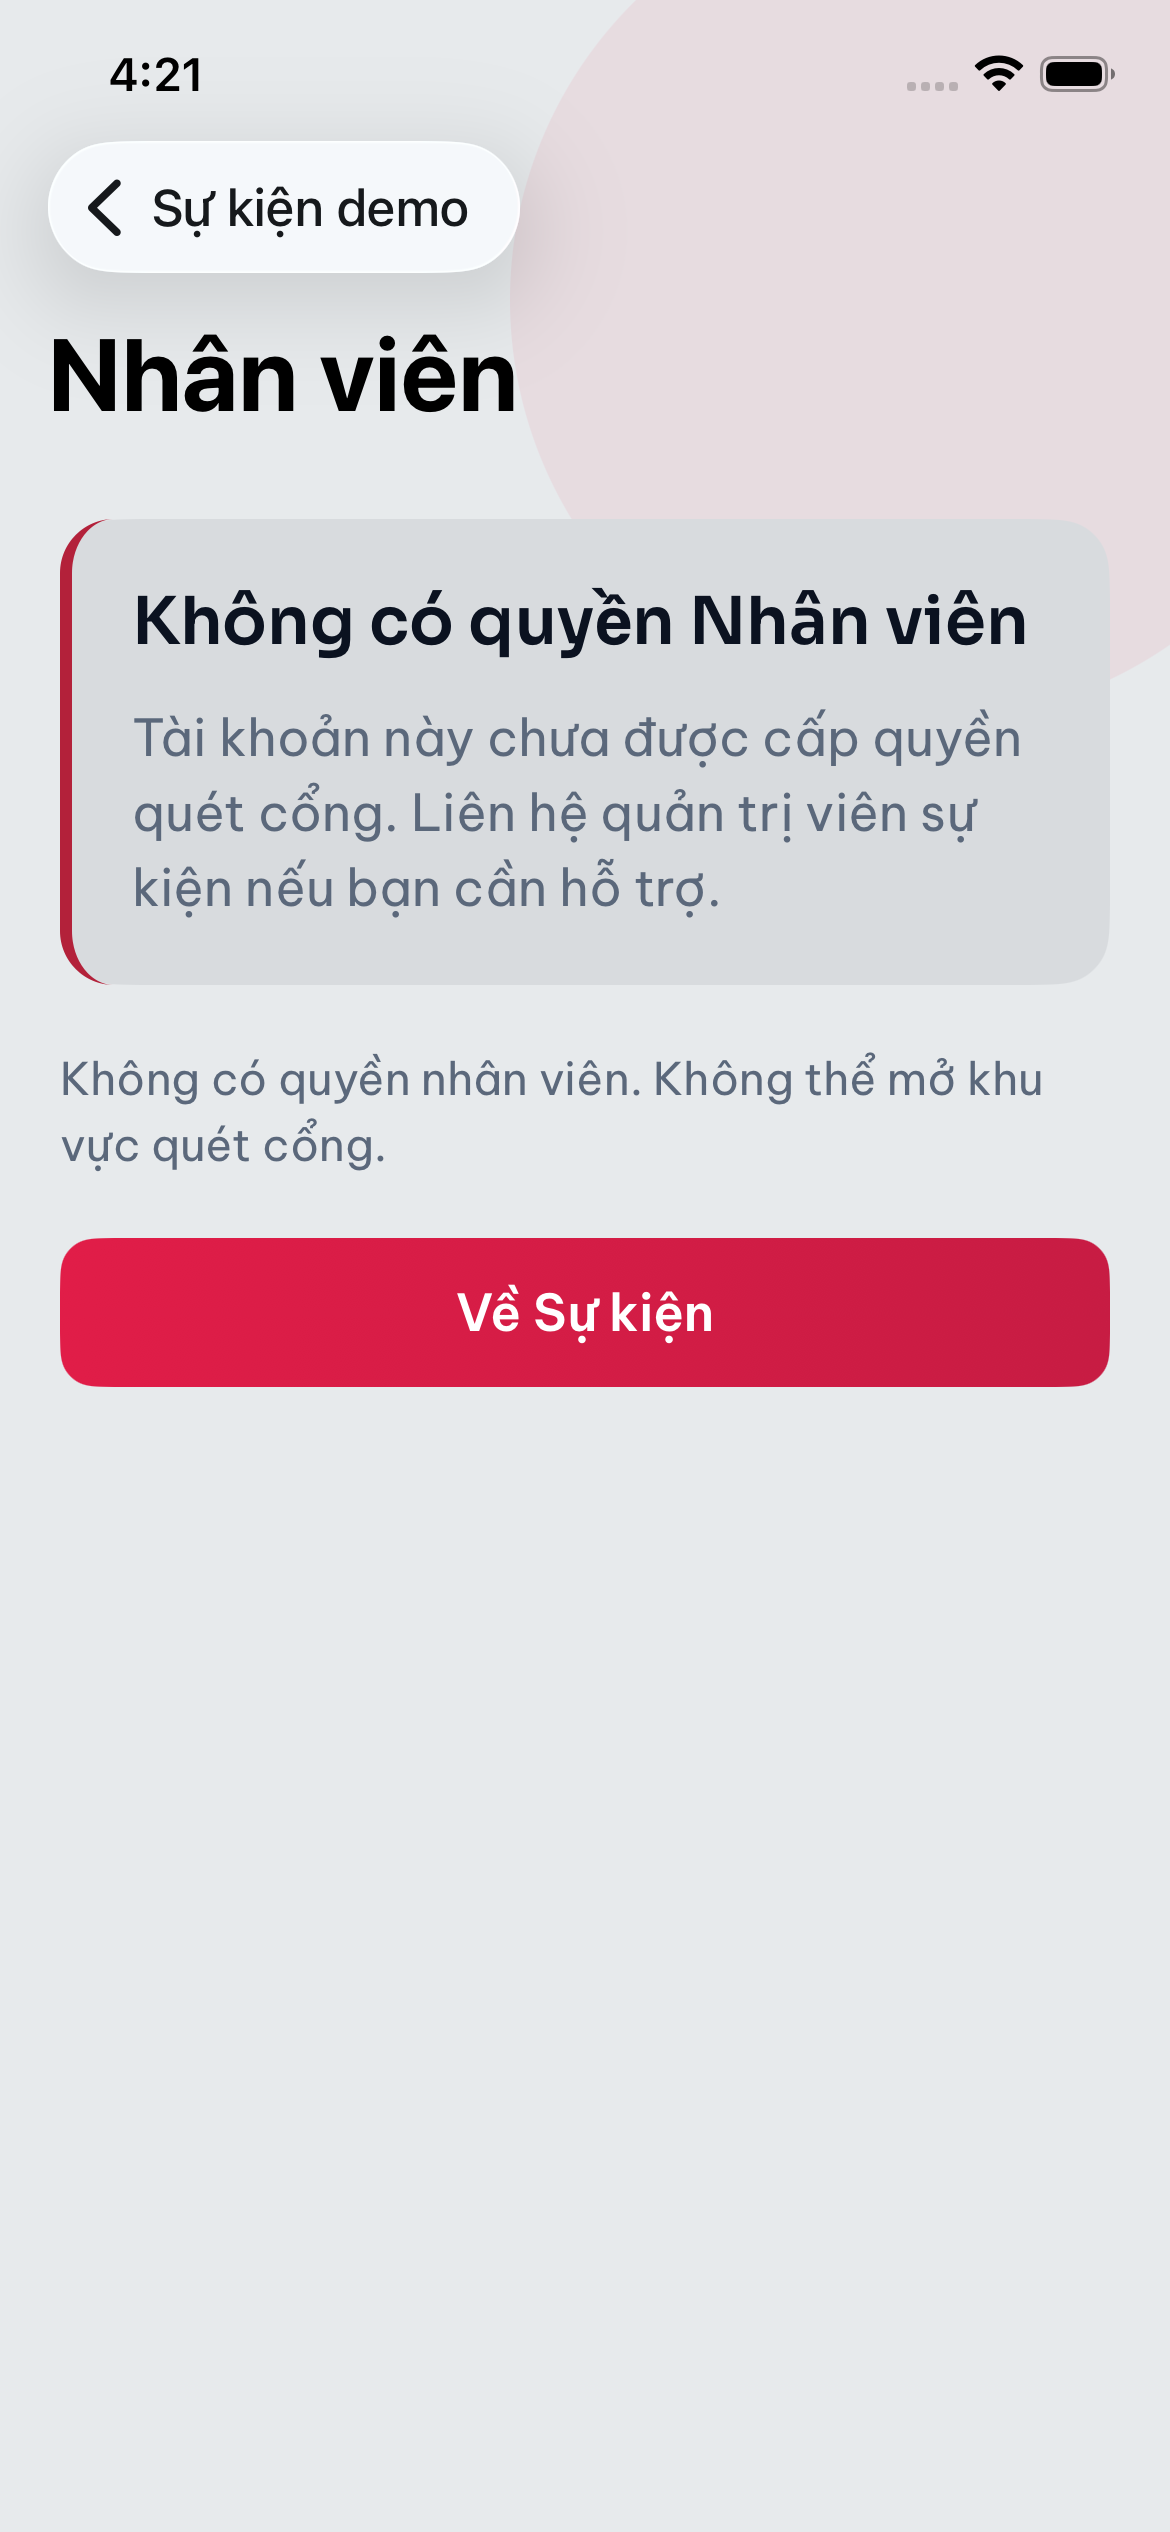
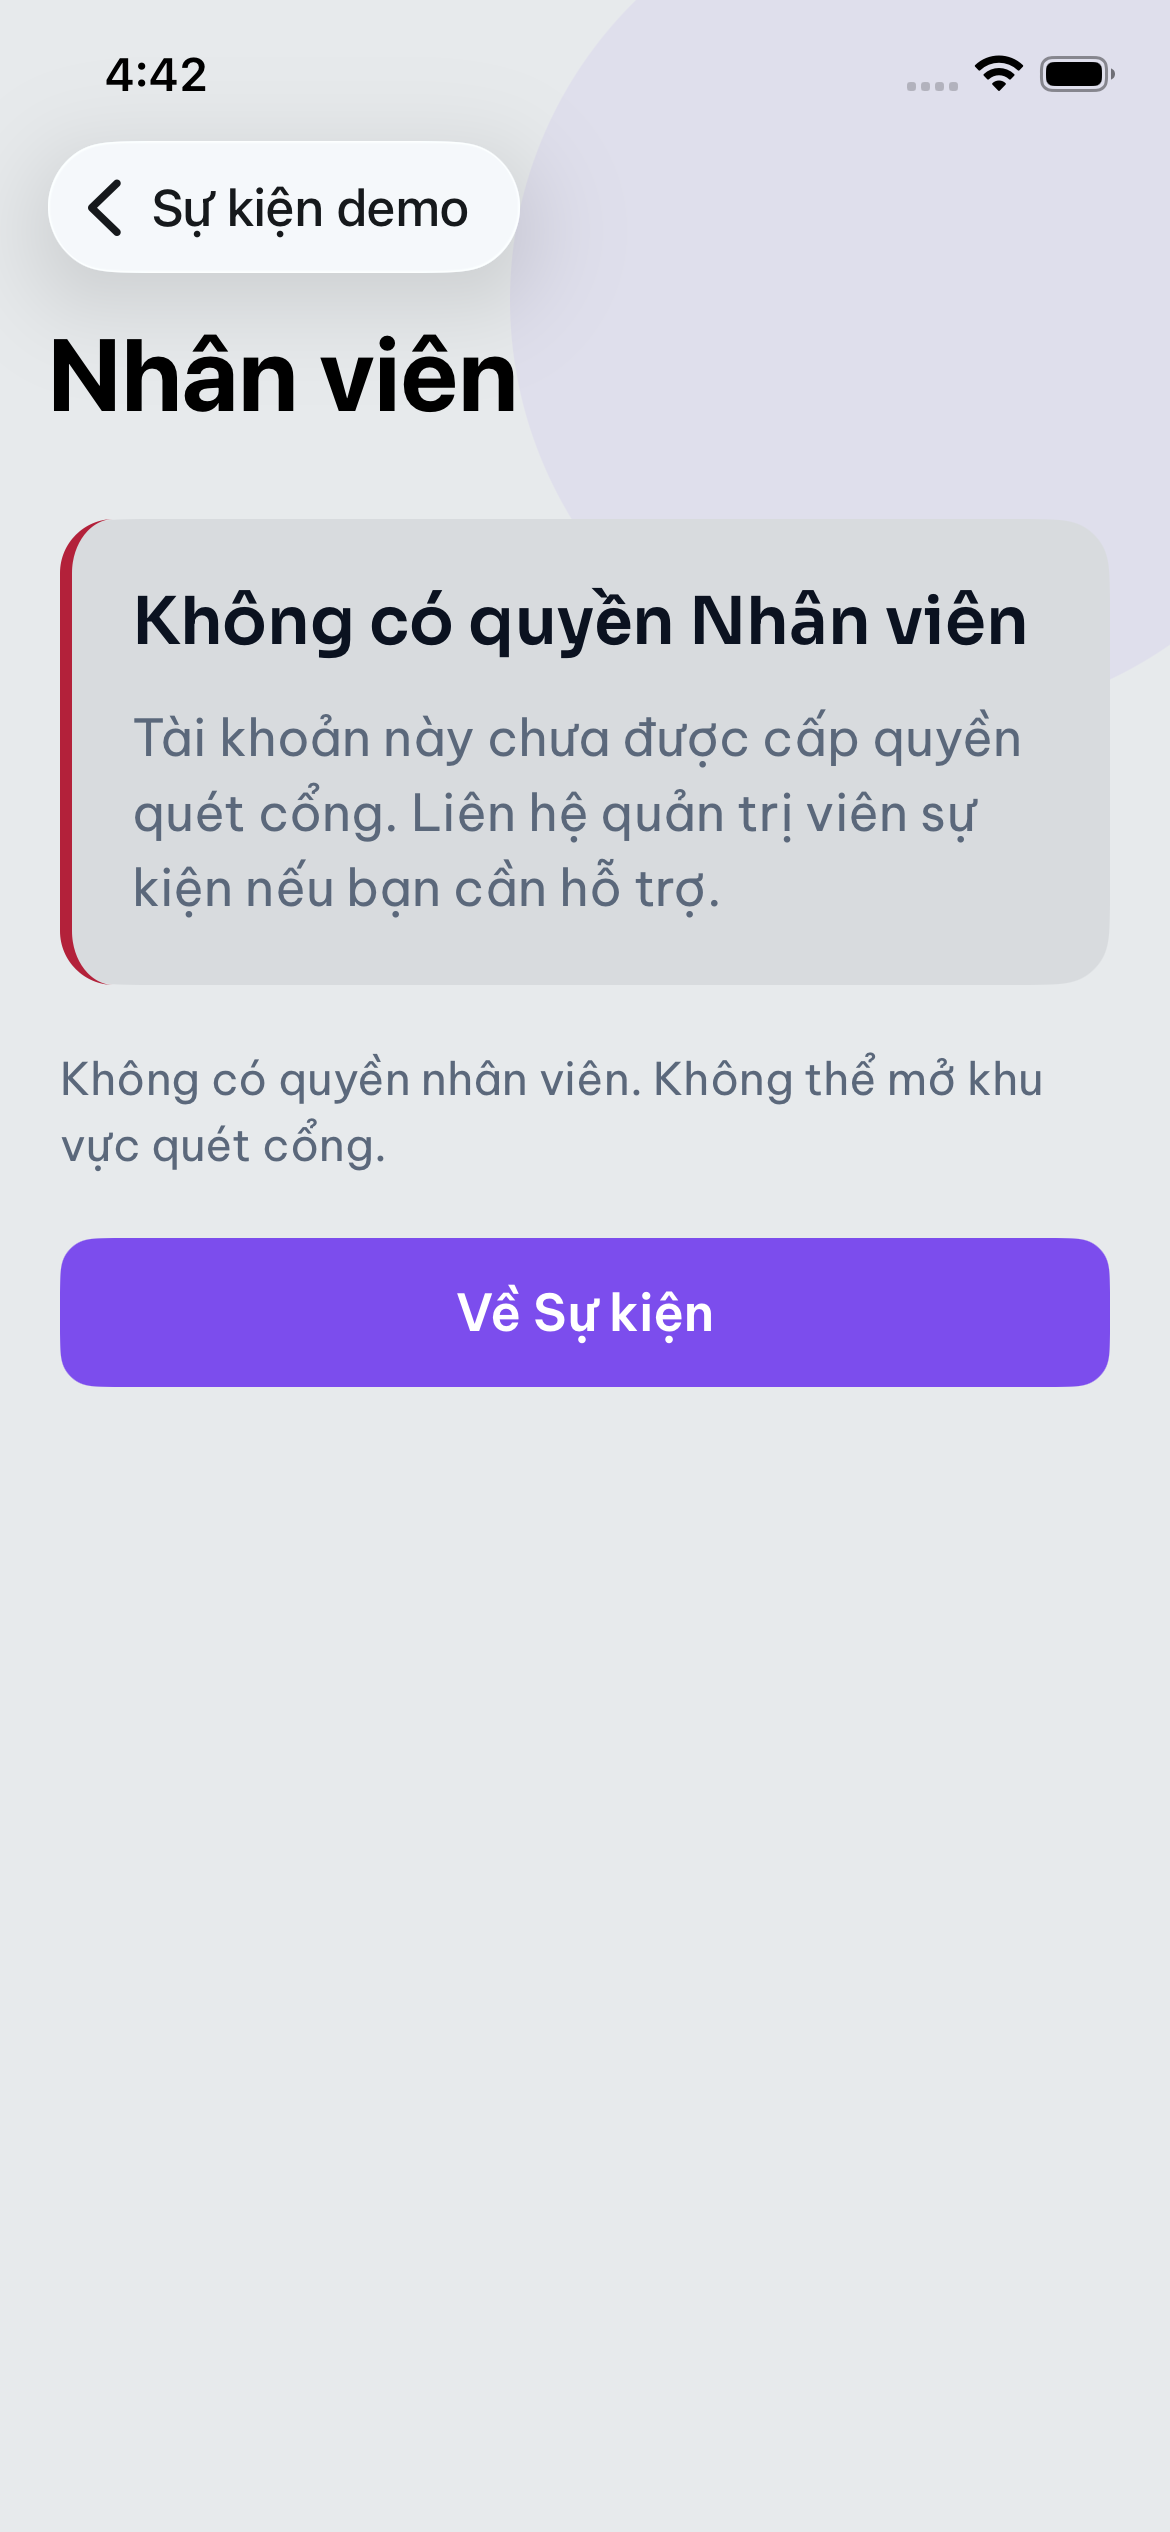
feat(mobile): solid primary violet #7C4DED for attendee UI
Sync brand primary into generated tokens, drop signal gradient/glow on Button, and refresh VD10 simulator evidence.

Changed region(s): [[0.0308, 0.468, 0.9538, 0.5616], [0.0923, 0.0, 0.1538, 0.0312]]

diff --git a/apps/mobile/src/components/ui/button.tsx b/apps/mobile/src/components/ui/button.tsx
@@ -1,4 +1,3 @@
-import { LinearGradient } from 'expo-linear-gradient';
 import { useState, type ReactNode } from 'react';
 import {
   Pressable,
@@ -10,7 +9,6 @@ import {
   type ViewStyle
 } from 'react-native';
 import { Spinner } from '@/components/ui/spinner';
-import { attendeePrimaryGradient } from '@/theme/attendee-primary';
 import { colors } from '@/theme/colors';
 import { fontFamilies } from '@/theme/fonts';
 import { radius, space } from '@/theme/tokens';
@@ -61,8 +59,6 @@ export function Button({
     ...accessibilityState
   };
 
-  const showPrimaryGradient = primary && !ghost && !destructive;
-
   return (
     <Pressable
       testID={testID}
@@ -86,12 +82,11 @@ export function Button({
       style={({ pressed }) => [
         styles.base,
         size === 'lg' ? styles.sizeLg : styles.sizeMd,
-        showPrimaryGradient ? styles.primaryShell : null,
         ghost ? styles.ghost : null,
         !ghost && destructive
           ? styles.destructive
           : !ghost && primary
-            ? null
+            ? styles.primary
             : !ghost
               ? styles.secondary
               : null,
@@ -101,17 +96,6 @@ export function Button({
       ]}
       {...rest}
     >
-      {showPrimaryGradient ? (
-        <LinearGradient
-          colors={[
-            attendeePrimaryGradient.start,
-            attendeePrimaryGradient.end,
-          ]}
-          start={{ x: 0, y: 0 }}
-          end={{ x: 1, y: 1 }}
-          style={StyleSheet.absoluteFill}
-        />
-      ) : null}
       <View style={[styles.content, contentStyle]}>
         {loading ? (
           <Spinner
@@ -165,15 +149,9 @@ const styles = StyleSheet.create({
     paddingVertical: space.md + space.xxs,
     paddingHorizontal: space.lg + space.xxs
   },
-  primaryShell: {
-    overflow: 'hidden',
+  primary: {
+    backgroundColor: colors.accent,
     borderWidth: 0,
-    backgroundColor: 'transparent',
-    shadowColor: colors.signal,
-    shadowOffset: { width: 0, height: 10 },
-    shadowOpacity: 0.28,
-    shadowRadius: 14,
-    elevation: 4,
   },
   secondary: {
     backgroundColor: colors.card,

diff --git a/apps/mobile/src/theme/colors.ts b/apps/mobile/src/theme/colors.ts
@@ -11,12 +11,13 @@ export const colors = {
   card: brand.paperDeep,
   separator: brand.inkFaint,
   /** Replaces systemBlue on product CTAs / links. */
-  accent: brand.signal,
+  accent: brand.primary,
   onAccent: '#ffffff',
   ink: brand.ink,
   paper: brand.paper,
   paperDeep: brand.paperDeep,
-  signal: brand.signal,
+  /** Product accent (solid primary violet); marketing signal stays on `brand.signal`. */
+  signal: brand.primary,
   focus: brand.focus,
   /** Ticket QR canvas (brand paper/ink). */
   ticketCanvas: brand.paper,
@@ -41,6 +42,6 @@ export const colors = {
   surfaceSubtle: '#f0f4f8',
   /** iOS shadowColor fallback. */
   shadow: '#000000',
-  /** Gate camera focus ring tint (signal @ ~70%). */
-  signalTint: '#fb7391',
+  /** Gate camera focus ring tint (primary @ ~70% on paper). */
+  signalTint: '#b8a4f5',
 };

diff --git a/apps/mobile/src/components/wallet-owned-tickets-link.tsx b/apps/mobile/src/components/wallet-owned-tickets-link.tsx
@@ -56,7 +56,7 @@ const styles = StyleSheet.create({
     paddingVertical: space.xs,
     paddingHorizontal: 0
   },
-  inlineText: { ...typography.subhead, color: brand.signal,
+  inlineText: { ...typography.subhead, color: brand.primary,
     fontFamily: fontFamilies.bodySemiBold,
     textAlign: 'left' },
   cardRow: {
@@ -69,7 +69,7 @@ const styles = StyleSheet.create({
   cardRowContent: {
     width: '100%'
   },
-  cardRowText: { ...typography.callout, color: brand.signal,
+  cardRowText: { ...typography.callout, color: brand.primary,
     fontFamily: fontFamilies.bodySemiBold,
     textAlign: 'center' }
 });

diff --git a/apps/mobile/src/theme/color-mix.test.ts b/apps/mobile/src/theme/color-mix.test.ts
@@ -2,7 +2,7 @@ import assert from 'node:assert/strict';
 import test from 'node:test';
 import { colorMixInSrgb } from './color-mix.ts';
 
-test('colorMixInSrgb matches web attendeePrimary stop (signal 88%, ink)', () => {
-  const mixed = colorMixInSrgb('#E11D48', '#0B1220', 0.88);
-  assert.equal(mixed, '#c71c43');
+test('colorMixInSrgb mixes primary violet toward ink', () => {
+  const mixed = colorMixInSrgb('#7C4DED', '#0B1220', 0.88);
+  assert.equal(mixed, '#6e46d4');
 });

diff --git a/apps/mobile/src/theme/tokens.test.ts b/apps/mobile/src/theme/tokens.test.ts
@@ -28,6 +28,8 @@ test('brand tokens match Live Pulse brand/vemoki/tokens.json', () => {
   assert.equal(brand.ink, raw.colors.ink);
   assert.equal(brand.paper, raw.colors.paper);
   assert.equal(brand.signal, raw.colors.signal);
+  assert.equal(brand.primary, raw.colors.primary);
+  assert.equal(brand.primary.toLowerCase(), '#7c4ded');
   assert.equal(brand.focus, raw.colors.focus);
   assert.equal(brand.line, raw.colors.line);
   assert.equal(brand.muted, raw.colors.muted);

diff --git a/apps/mobile/src/screens/ticket-detail.tsx b/apps/mobile/src/screens/ticket-detail.tsx
@@ -235,13 +235,13 @@ export function TicketDetailScreen() {
           borderCurve: 'continuous',
           overflow: 'hidden',
           borderWidth: 1,
-          borderColor: brand.signal
+          borderColor: brand.primary
         }}
       >
         <View
           style={{
             height: 6,
-            backgroundColor: brand.signal
+            backgroundColor: brand.primary
           }}
         />
         {hasDemoMediaForEventId(ticket.eventId) ? (

diff --git a/apps/mobile/src/theme/types.ts b/apps/mobile/src/theme/types.ts
@@ -28,7 +28,7 @@ export type ThemeSource = 'default' | 'cache' | 'api';
 export type ThemeTokens = {
   ink: string;
   paper: string;
-  /** Product accent — tenant primaryColor when valid, else Vemoki signal. */
+  /** Product accent — tenant primaryColor when valid, else Vemoki primary (#7C4DED). */
   signal: string;
   /** Focus — tenant secondaryColor when valid, else Vemoki focus. */
   focus: string;

diff --git a/apps/mobile/src/components/account-grouped-section.tsx b/apps/mobile/src/components/account-grouped-section.tsx
@@ -85,7 +85,7 @@ export function AccountGroupedRow({
     >
       <View style={{ flex: 1, gap: space.xxs }}>
         <Text
-          style={{ ...typography.body, color: destructive ? brand.signal : brand.ink,
+          style={{ ...typography.body, color: destructive ? colors.deny : brand.ink,
             fontFamily: fontFamilies.body,
             fontWeight: destructive ? '600' : '400' }}
         >

diff --git a/apps/mobile/src/screens/account.tsx b/apps/mobile/src/screens/account.tsx
@@ -370,7 +370,7 @@ function ConfiguredAccount({
 
         {busy ? (
           <View style={{ padding: space.sm, alignItems: 'center' }}>
-            <Spinner color={brand.signal} accessibilityLabel="Đang tải tài khoản" />
+            <Spinner color={brand.primary} accessibilityLabel="Đang tải tài khoản" />
             <Text
               style={{
                 marginTop: space.sm,

diff --git a/apps/mobile/src/theme/resolve.test.ts b/apps/mobile/src/theme/resolve.test.ts
@@ -5,7 +5,7 @@ import { brand } from './tokens.ts';
 
 test('defaultThemeTokens matches Vemoki platform brand', () => {
   const tokens = defaultThemeTokens();
-  assert.equal(tokens.signal, brand.signal);
+  assert.equal(tokens.signal, brand.primary);
   assert.equal(tokens.wordmark, brand.wordmark);
   assert.equal(tokens.source, 'default');
   assert.equal(tokens.logoUrl, null);

diff --git a/apps/mobile/src/screens/my-tickets.tsx b/apps/mobile/src/screens/my-tickets.tsx
@@ -166,7 +166,7 @@ function TicketRow({ ticket }: { ticket: TicketSummary }) {
           </Text>
         ) : null}
         <Text
-          style={{ ...typography.subhead, color: brand.signal,
+          style={{ ...typography.subhead, color: brand.primary,
             fontFamily: fontFamilies.bodySemiBold }}
         >
           {row.viewTicketCta}

diff --git a/apps/mobile/src/screens/event-detail.tsx b/apps/mobile/src/screens/event-detail.tsx
@@ -118,7 +118,7 @@ function FixtureDemoDetail({
         }}
       >
         <Text
-          style={{ ...typography.caption, color: brand.signal,
+          style={{ ...typography.caption, color: brand.primary,
             fontFamily: fontFamilies.bodySemiBold, }}
         >
           Demo · dữ liệu mẫu · chưa xuất bản
